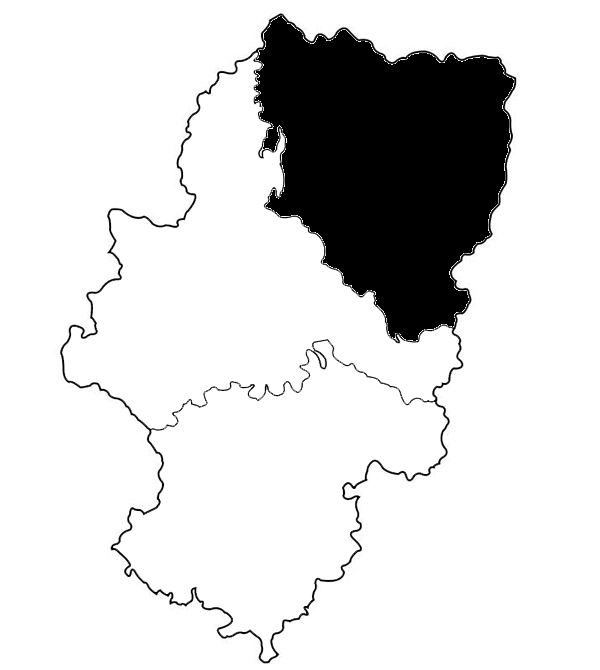
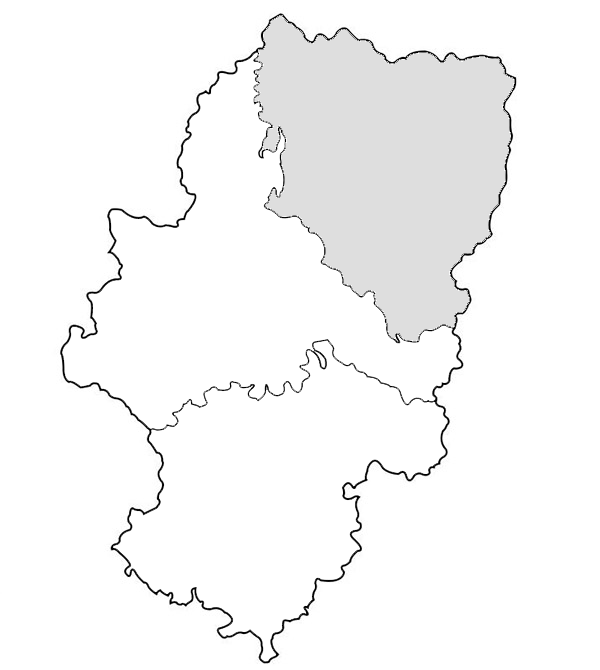
Improve map areas for Zaragoza, Teruel and Huesco on home map. Added three images of the map for stand out the province selected.

Changed region(s): [[0.42, 0.0299, 0.87, 0.5075]]

diff --git a/WebContent/www/templates/home.html b/WebContent/www/templates/home.html
@@ -9,15 +9,23 @@
         <img id ="img-logo" src="images/logo_uz.png" alt="Logo de la Universidad de Zaragoza"> </img>
 
         <div id="mapimage">
-            <img class ="aragon" id ="fotoAragon" src="images/mapa_Aragon.png" width="100%" usemap="#aragon" alt="Mapa de provincias de Aragon"> </img>
+            <img class ="aragon" id ="fotoAragon" ng-src="images/mapa_Aragon{{provincia}}.png" width="100%" usemap="#aragon" alt="Mapa de provincias de Aragon"> </img>
             <!--  <img class ="aragon" id ="fotoAragon" src="images/mapa_Aragon_mobile.png" width="100%" usemap="#aragon" alt="Mapa de provincias de Aragon"> </img>-->
         </div>
 
         <map id="mapaAragon" name="aragon">
 
-            <area id="huesca" shape="poly" coords="456,326,521,69,274,10,259,91,290,216,388,326" ng-click=" Huesca()" href="#/app/mapa"   title="Huesca" alt="Huesca" onmouseover="this.style.backgroundColor='#00FF00';" onmouseout="this.style.backgroundColor='transparent';"/>
-            <area id="zaragoza" shape="poly" coords="258,54,267,206,397,337,453,333,440,389,323,345,155,430,74,384,91,296,207,92" ng-click=" Zaragoza()" href="#/app/mapa" title="Zaragoza" alt="Zaragoza" onmouseover="this.style.backgroundColor='#00FF00';" onmouseout="this.style.backgroundColor='transparent';"/>
-            <area id="teruel" shape="poly" coords="275,654,354,500,379,464,436,471,445,408,323,344,153,435,115,552" ng-click=" Teruel()" href="#/app/mapa" title="Teruel" alt="Teruel" onmouseover="this.style.backgroundColor='#00FF00';" onmouseout="this.style.backgroundColor='transparent';"/>
+            <area id="HuescaImgMap" shape="poly" coords="456,326,521,69,274,10,259,91,290,216,388,326"
+                  ng-click="loadMap(0)" ui-sref="app.mapa" title="Huesca" alt="Huesca"
+                  ng-mouseenter="changeImage(true,'Huesca')" ng-mouseleave="changeImage(false,'Huesca')"/>
+
+            <area id="ZaragozaImgMap" shape="poly" coords="258,54,267,206,397,337,453,333,440,389,323,345,155,430,74,384,91,296,207,92"
+                  ng-click="loadMap(1)" ui-sref="app.mapa" title="Zaragoza" alt="Zaragoza"
+                  ng-mouseenter="changeImage(true,'Zaragoza')" ng-mouseleave="changeImage(false,'Zaragoza')"/>
+
+            <area id="TeruelImgMap" shape="poly" coords="275,654,354,500,379,464,436,471,445,408,323,344,153,435,115,552"
+                  ng-click="loadMap(2)" ui-sref="app.mapa" title="Teruel" alt="Teruel"
+                  ng-mouseenter="changeImage(true,'Teruel')" ng-mouseleave="changeImage(false,'Teruel')"/>
 
             <!--
                 <area id="huesca" shape="poly" coords="229,163,201,170,141,104,133,12,175,19,251,32,255,83" ng-click=" Huesca()" href="#/app/mapa"   title="Huesca" alt="Huesca" onmouseover="this.style.backgroundColor='#00FF00';" onmouseout="this.style.backgroundColor='transparent';"/>
